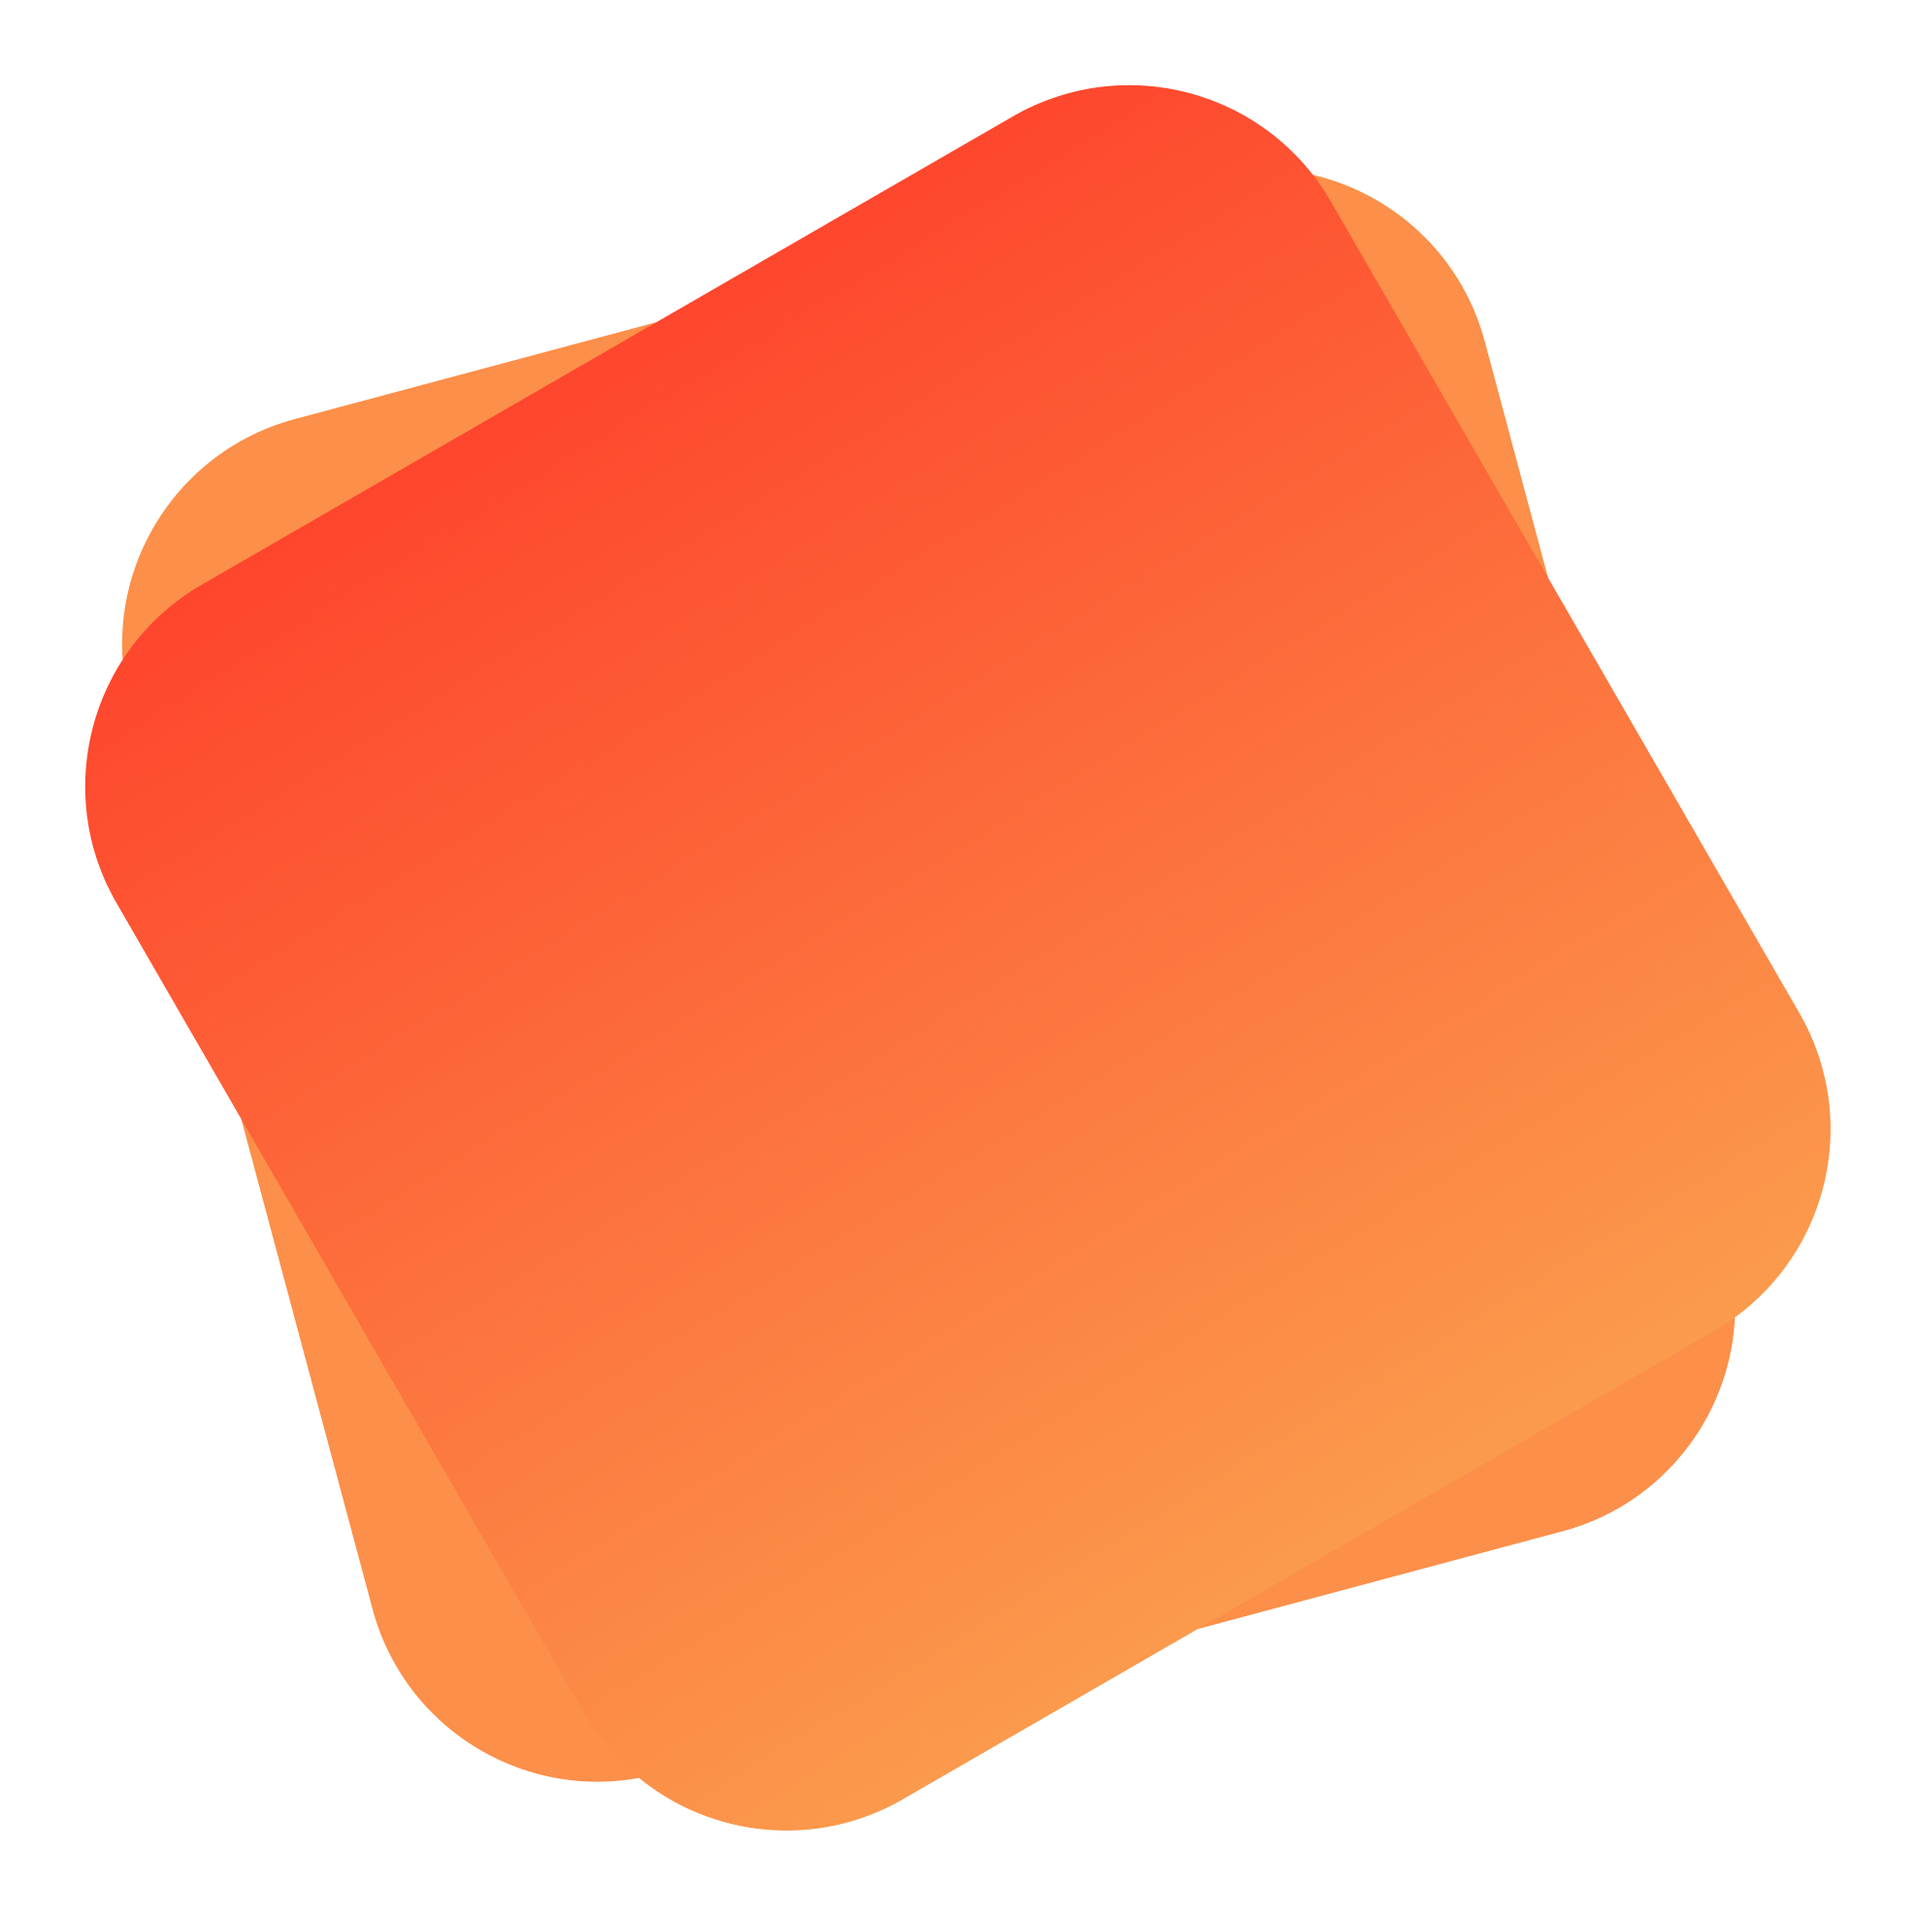
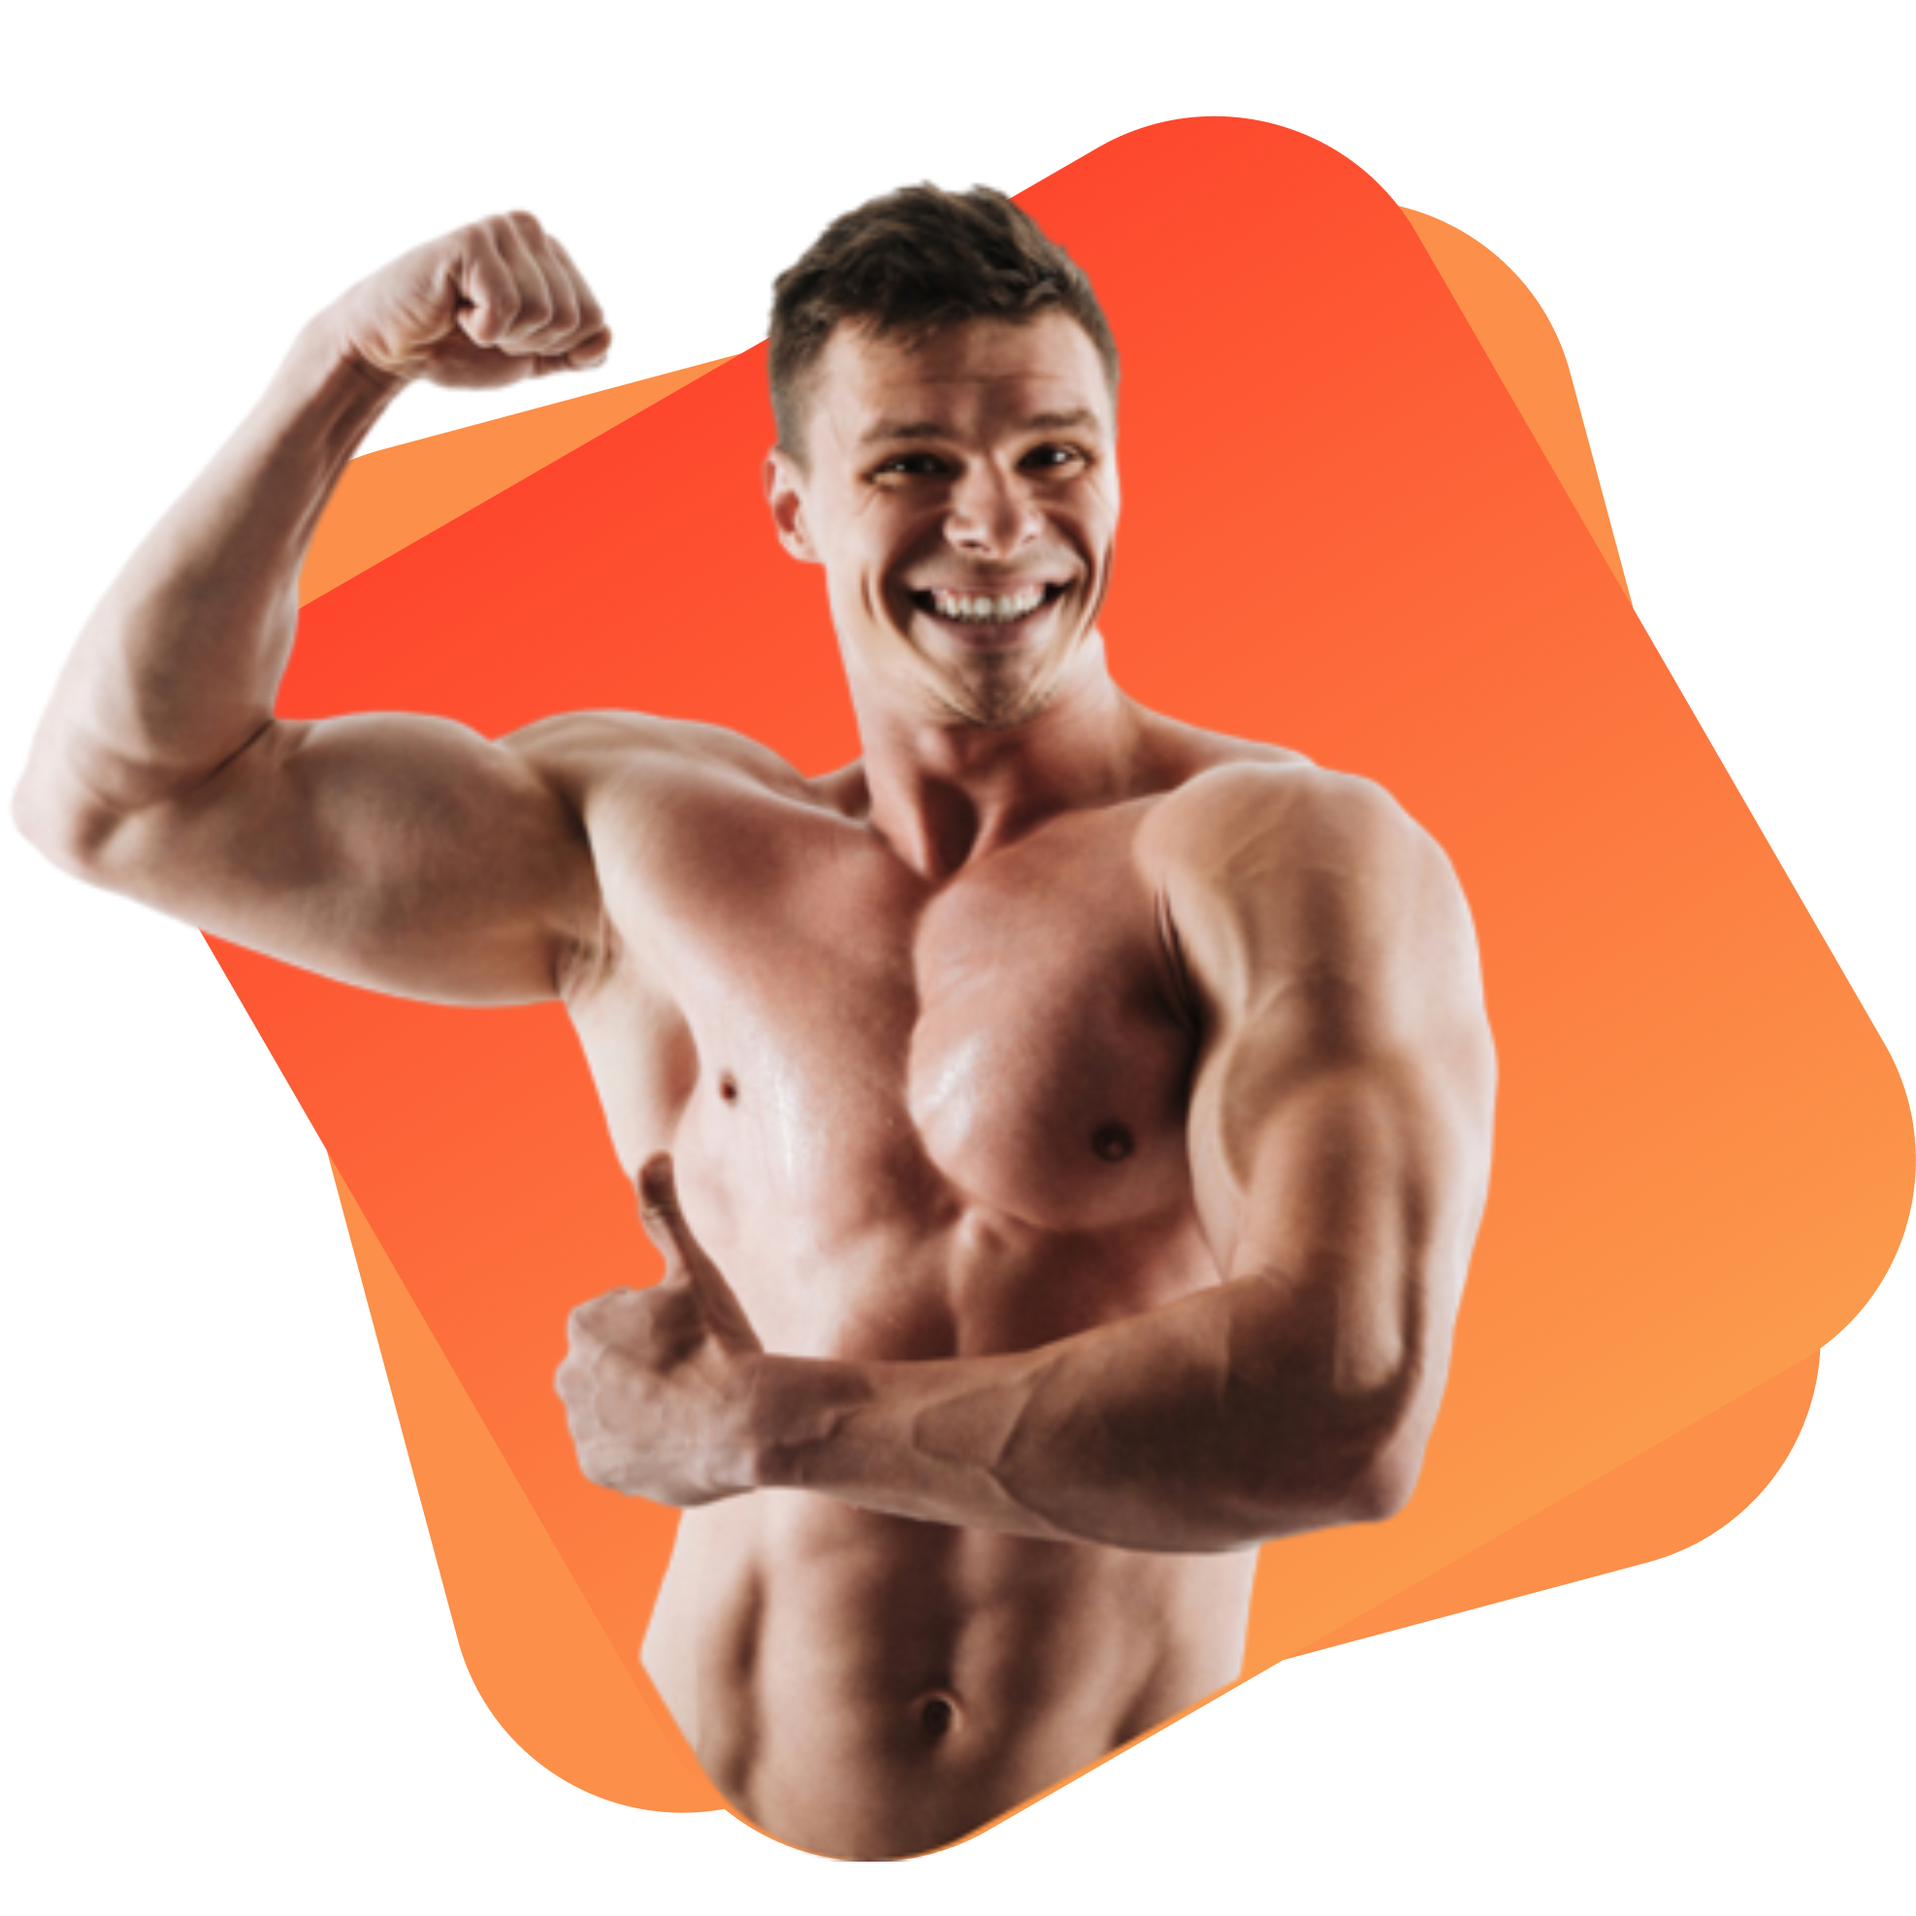
first alin

diff --git a/index.html b/index.html
@@ -6,11 +6,54 @@
     <meta http-equiv="X-UA-Compatible" content="IE=edge">
     <meta name="viewport" content="width=device-width, initial-scale=1.0">
     <title>Diet Website</title>
-    <link rel="stylesheet" href="styles.css">
+    <link rel="preconnect" href="https://fonts.googleapis.com">
+    <link rel="preconnect" href="https://fonts.gstatic.com" crossorigin>
+    <link href="https://fonts.googleapis.com/css2?family=Montserrat&display=swap" rel="stylesheet">
+    <link rel="stylesheet" href="style.css">
 </head>
 
 <body>
+    <section>
+        <div class="half-width firsthead">
+            <h1>
+                <span class="orange"> Skip </span> The Diet, Just Eat Healthy With Food Network
+            </h1>
+            <p>
+                Imagine you don't need a diet because we provide
+                healthy and delicious food for you!
+            </p><br>
+            <a class="button" target="_blank" href=""> Order Food</a>
 
+        </div>
+        <div class="half-width">
+            <img src="images/shapes/Group 8450.png">
+        </div>
+
+    </section>
+
+    <section class="diet-web-img">
+        <div class="half-width picture">
+            <img class="picture" src="images/female/Person Image.png">
+        </div>
+        <div class="half-width text-aline">
+            <h1>
+                About Me
+            </h1>
+            <p>
+                Lorem ipsum dolor sit amet, consectetur adipiscing elit. Condimentum diam orci pretium a pharetra,
+                feugiat cursus. Dictumst risus, sem egestas odio cras adipiscing vulputate. Nisi, risus in suscipit non.
+                Non commodo volutpat, pharetra, vel.
+            </p>
+            <br><br>
+            <br>
+            <a class="button" target="_blank" href="">Contact Me </a>
+
+
+
+        </div>
+
+
+    </section>
 </body>
 
 </html>

diff --git a/style.css b/style.css
@@ -1,0 +1,59 @@
+body {
+    font-family: 'Montserrat', sans-serif;
+}
+
+h1 {
+    font-size: 42px;
+    color: rgba(87, 87, 87, 1);
+}
+
+.half-width {
+    width: 50%;
+    padding-left: 8%;
+}
+
+.half-width img {
+    width: 90%;
+}
+
+section {
+    display: flex;
+    margin-bottom: 100px;
+}
+
+.orange {
+    color: rgba(251, 162, 79, 1);
+}
+
+.button {
+    padding: 15px 25px;
+    text-decoration: none;
+    background-color: rgba(251, 162, 79, 1);
+    border-radius: 30px;
+    color: white;
+    font-weight: 700;
+}
+
+.firsthead {
+    padding-top: 70px;
+}
+
+.diet-web-img {
+    background-image: url(images/shapes/7.png);
+    width: 1255px;
+    height: 500px;
+}
+
+.picture {
+    margin-top: 50px;
+    width: 300px;
+    height: 400px;
+    padding-right: 20px;
+}
+
+.text-aline {
+    padding-left: 250px;
+    padding-top: 100px;
+    padding-right: 80px;
+
+}
